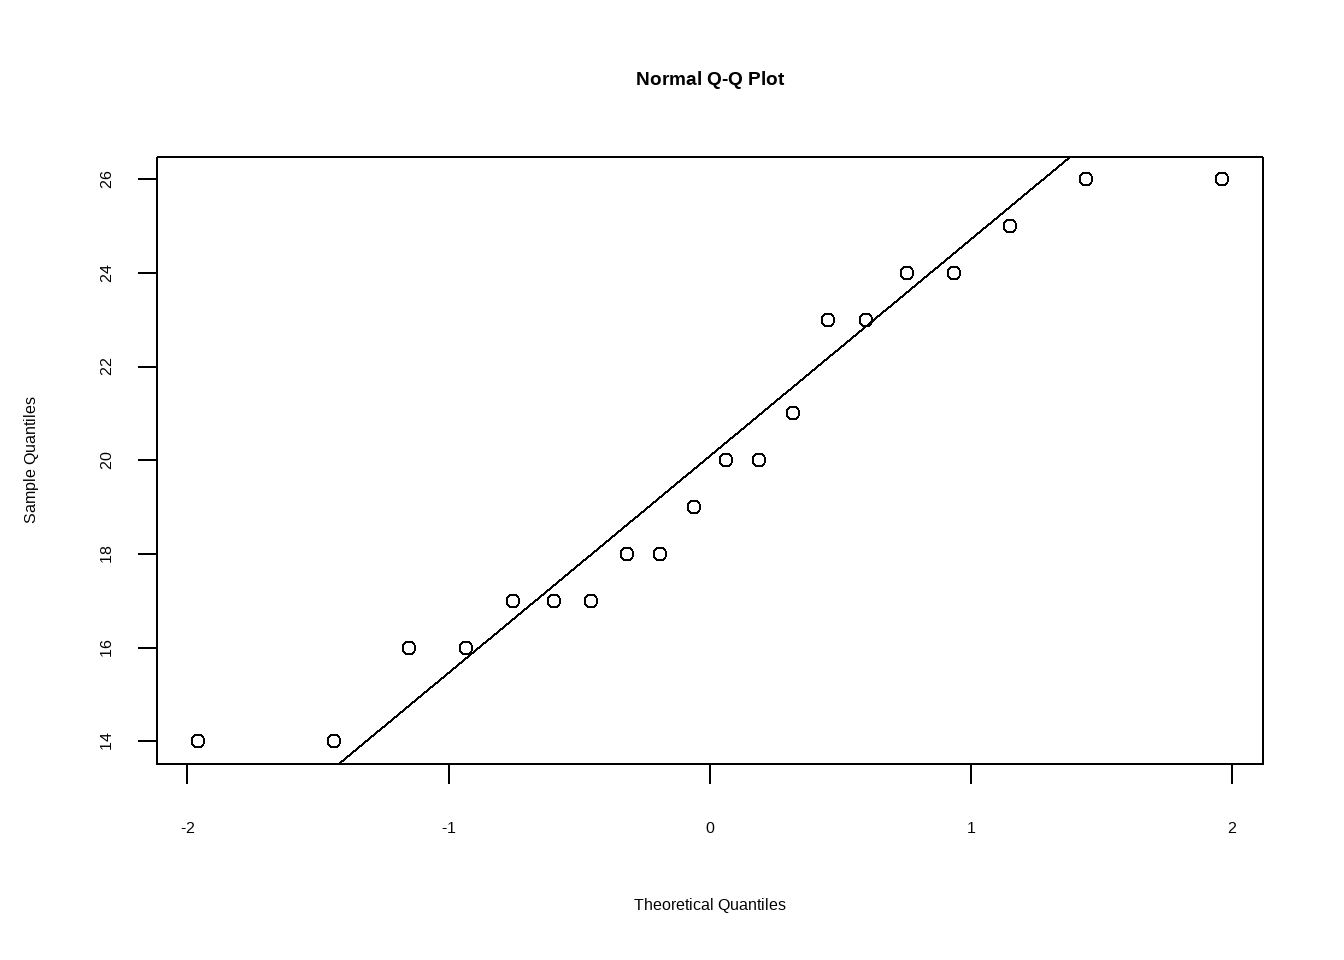
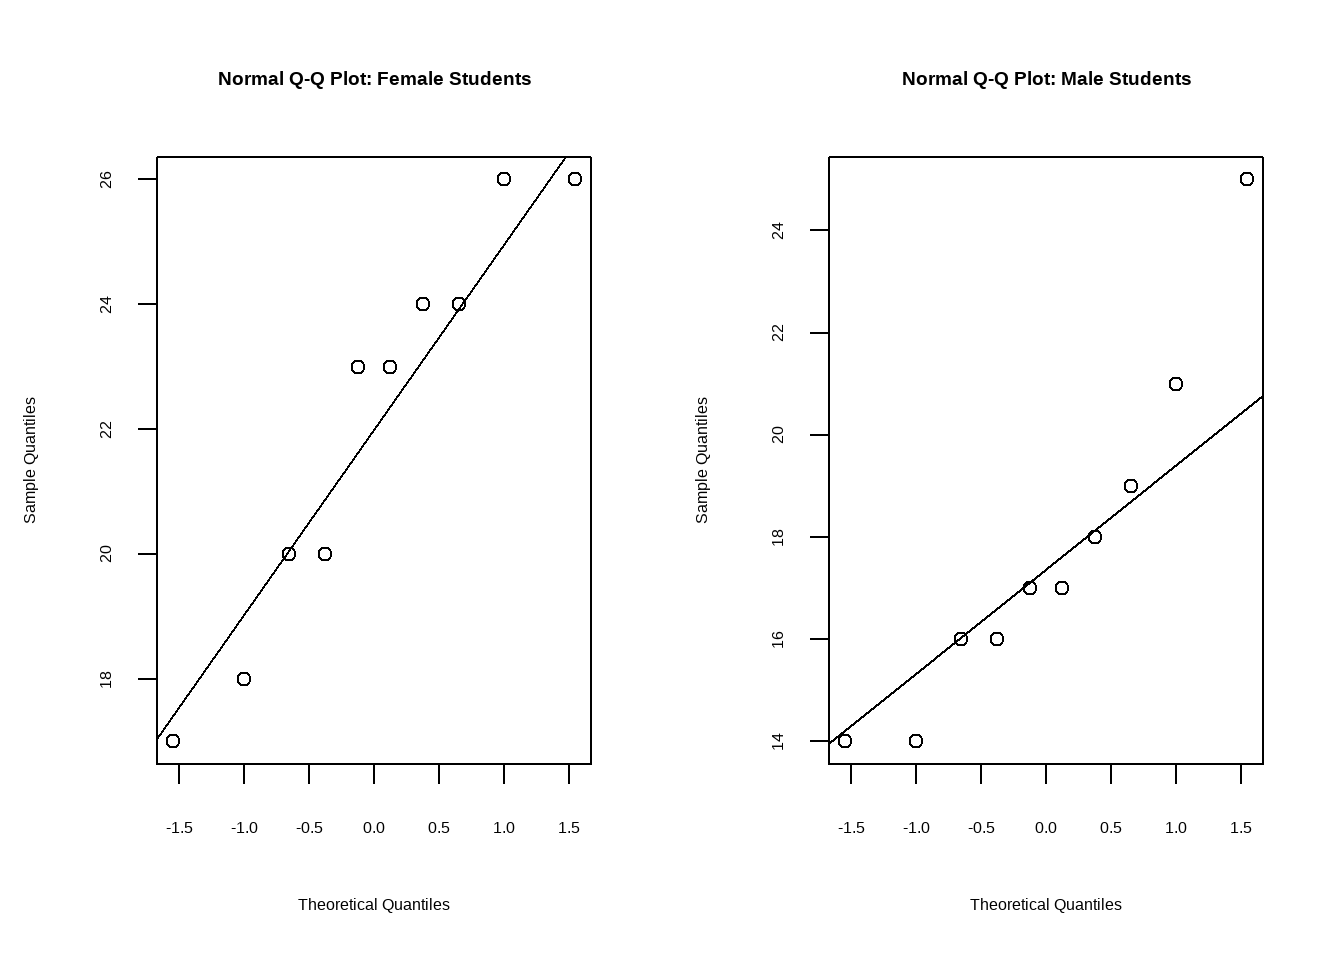
spelling corrections

diff --git a/content/rstats/20220415-indpendent-t-test/index.html b/content/rstats/20220415-indpendent-t-test/index.html
@@ -42,12 +42,14 @@ library(haven) # reading .sav (SPSS) data file
 library(ggstatsplot) # creating plots for different stat test
 library(patchwork) # for combining plots
 library(dlookr) # for normality test
+library(qqplotr) # add functions to ggplot to for qqplot
 
 # Loading data
 memory_ability &lt;- 
   read_sav(&quot;https://raw.githubusercontent.com/chris-allones/Research-methods/master/t-test/data/EX4.sav&quot;) %&gt;% 
   mutate(gender = as.character(gender),
-         gender = factor(gender, levels = 1:2, labels = c(&quot;Male&quot;, &quot;Female&quot;)))
+         gender = factor(gender, levels = 1:2, labels = c(&quot;Male&quot;, &quot;Female&quot;)),
+         gender = fct_rev(gender))
 
 # printing dataset
 rmarkdown::paged_table(memory_ability, option = list(rows.print = 5))</code></pre>
@@ -74,9 +76,22 @@ words      2 20 19.9 3.89   19.5   19.88 5.19  14  26    12 0.14     -1.4 0.87</
 <div id="normality-test" class="section level2">
 <h2>Normality test</h2>
 <p>For a start, a qqplot or the “quantile-quantile” plot can be used to quickly assess whether or not the data or a variable follows a normal distribution. If normally distributed, the data points will lie on the straight diagonal line. For the qqplot below, most of the points lie on the diagonal line but with some deviations along each of the tails.</p>
-<pre class="r"><code>qqnorm(memory_ability$words)
-qqline(memory_ability$words)</code></pre>
+<pre class="r"><code># qqplot using the base R function
+par(mfrow = c(1, 2))
+qqnorm(memory_ability[memory_ability$gender == &quot;Female&quot;, ]$words, main = &quot;Normal Q-Q Plot: Female Students&quot;)
+qqline(memory_ability[memory_ability$gender == &quot;Female&quot;, ]$words)
+
+qqnorm(memory_ability[memory_ability$gender == &quot;Male&quot;, ]$words, main = &quot;Normal Q-Q Plot: Male Students&quot;)
+qqline(memory_ability[memory_ability$gender == &quot;Male&quot;, ]$words)</code></pre>
 <p><img src="{{< blogdown/postref >}}index_files/figure-html/unnamed-chunk-3-1.png" width="672" style="display: block; margin: auto;" /></p>
+<pre class="r"><code># qqplot using ggplot
+ggplot(data = memory_ability, mapping = aes(sample = words, color = gender, fill = gender)) +
+  stat_qq_band(alpha=0.5, conf=0.95, qtype=1, bandType = &quot;ts&quot;) +
+  stat_qq_line(identity=TRUE) +
+  stat_qq_point(col=&quot;black&quot;) +
+  facet_wrap(~ gender, ncol = 2) +
+  theme(text = element_text(size = 18))</code></pre>
+<p><img src="{{< blogdown/postref >}}index_files/figure-html/unnamed-chunk-4-1.png" width="672" style="display: block; margin: auto;" /></p>
 <p>Often the visual inspection is hard to see the pattern if the data follows a normal distribution. Therefore, we can use the Shapiro-Wilk test for normality. If the significance level is greater than 0.05, then normality is assumed. The Shapiro-Wilk test is recommended when the sample size is small (~ &lt;50).</p>
 <p>We will test the distribution of the number of recalled words for each group (i.e., male and female). Then, we will use the function <code>group_by()</code> to perform the normality test for each <code>gender</code> separately. The result of the Shapiro-Wilk test shows that the computed significance level is greater than 0.05, implying normality can be assumed.</p>
 <pre class="r"><code># normality test using the dlookr package
@@ -86,8 +101,8 @@ memory_ability %&gt;%
 <pre><code># A tibble: 2 × 5
   variable gender statistic p_value sample
   &lt;chr&gt;    &lt;fct&gt;      &lt;dbl&gt;   &lt;dbl&gt;  &lt;dbl&gt;
-1 words    Male       0.902   0.231     10
-2 words    Female     0.920   0.355     10</code></pre>
+1 words    Female     0.920   0.355     10
+2 words    Male       0.902   0.231     10</code></pre>
 <p><br></p>
 </div>
 <div id="homogeneity-of-variance" class="section level2">
@@ -115,13 +130,13 @@ ind_ttest</code></pre>
     Welch Two Sample t-test
 
 data:  words by gender
-t = -3.0203, df = 17.958, p-value = 0.007367
-alternative hypothesis: true difference in means between group Male and group Female is not equal to 0
+t = 3.0203, df = 17.958, p-value = 0.007367
+alternative hypothesis: true difference in means between group Female and group Male is not equal to 0
 95 percent confidence interval:
- -7.461101 -1.338899
+ 1.338899 7.461101
 sample estimates:
-  mean in group Male mean in group Female 
-                17.7                 22.1 </code></pre>
+mean in group Female   mean in group Male 
+                22.1                 17.7 </code></pre>
 <pre class="r"><code>ggbetweenstats(
   data = memory_ability,
   x = gender,
@@ -130,7 +145,7 @@ sample estimates:
   var.equal = TRUE # homogenous variance from Leven&#39;s test
 ) + 
   theme(text = element_text(size = 24)) # increase text size</code></pre>
-<p><img src="{{< blogdown/postref >}}index_files/figure-html/unnamed-chunk-7-1.png" width="672" style="display: block; margin: auto;" /></p>
+<p><img src="{{< blogdown/postref >}}index_files/figure-html/unnamed-chunk-8-1.png" width="672" style="display: block; margin: auto;" /></p>
 <p>We can also compute for the eta-square (<span class="math inline">\(\eta^2\)</span>) which can be interpreted in exactly the same as <span class="math inline">\(R^2\)</span> in correlation and regression. That is, approximately 33.63% of the variability in the number of words correctly recalled was explained by the gender manipulation. Eta-square can be calculated by:</p>
 <p><span class="math display">\[\eta^2 = \frac{t^2}{t^2 + df}\]</span></p>
 <pre class="r"><code>ind_ttest$statistic^2 / (ind_ttest$statistic^2 + ind_ttest$parameter)</code></pre>
